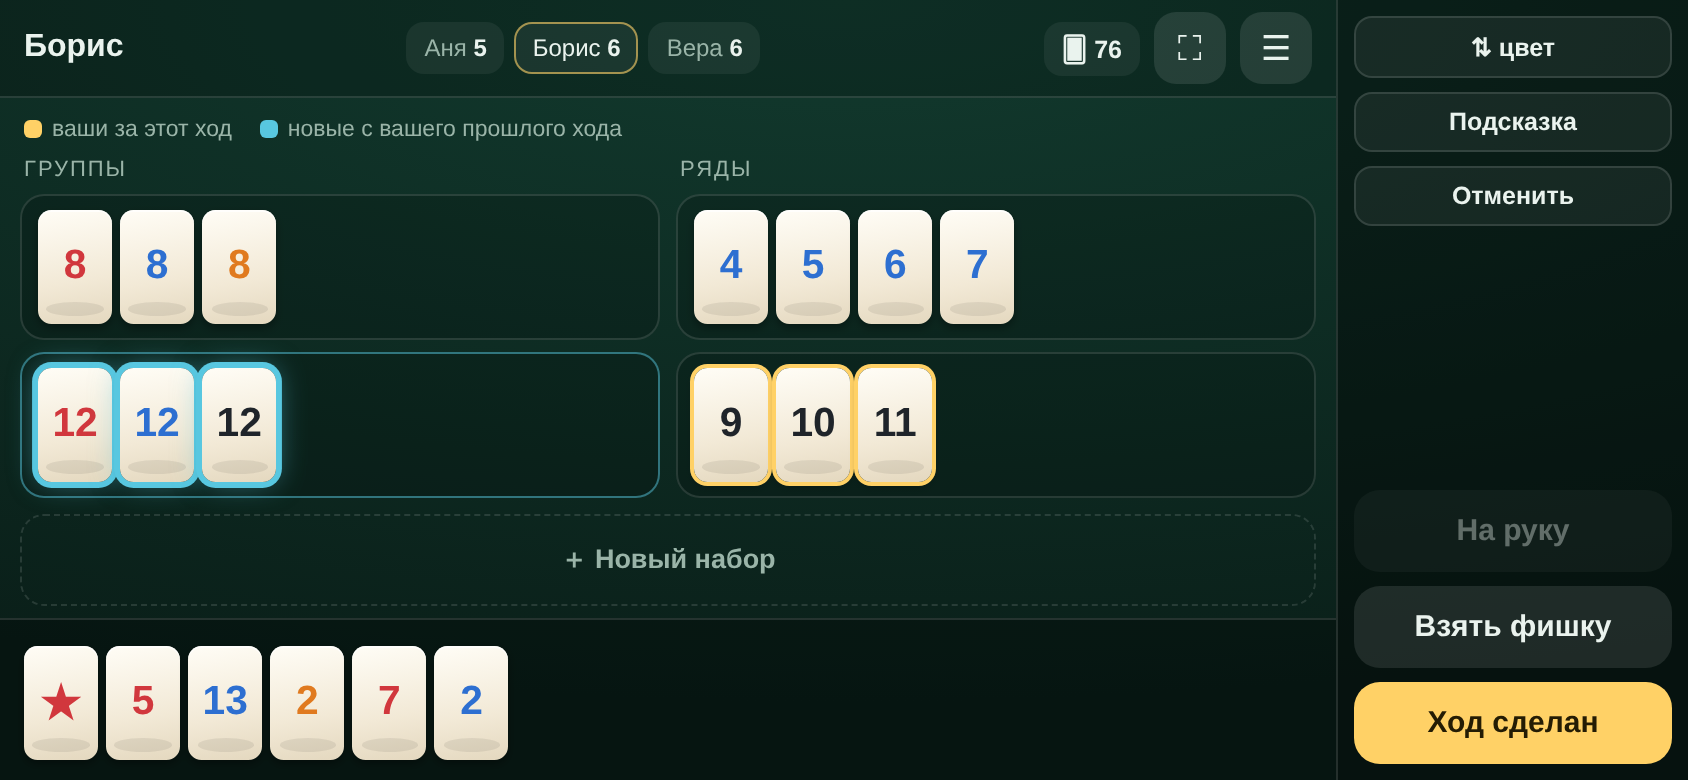
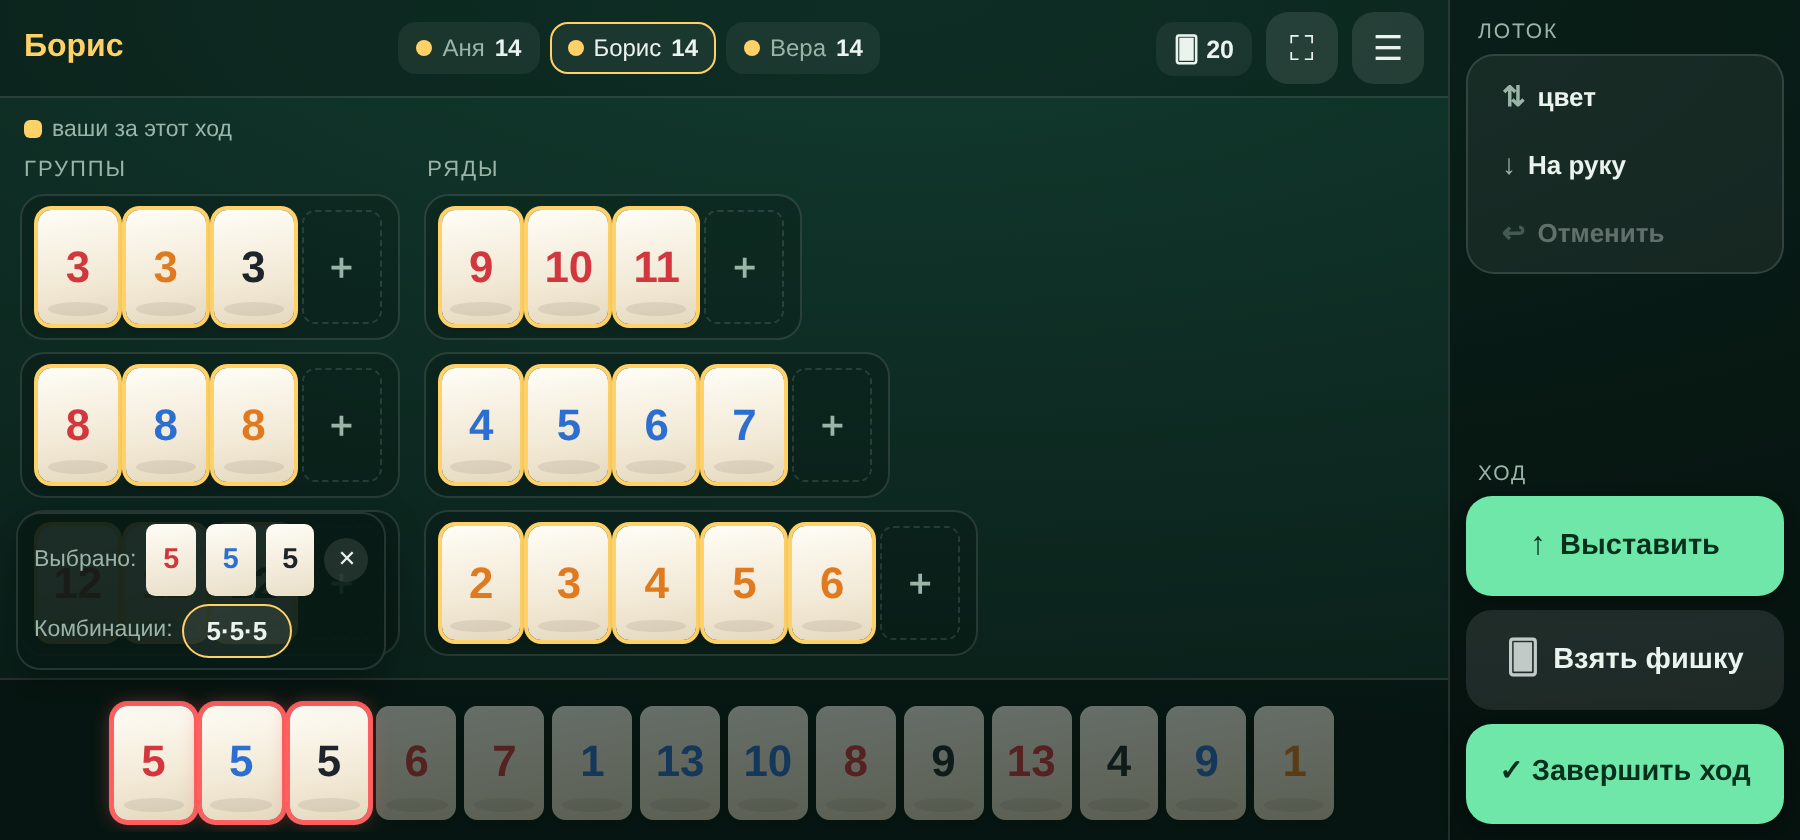
Выделение больше не двигает интерфейс, подложка набора по размеру набора
Полоска «Выбрано» вставлялась в начало стола обычным блоком: первый же
тап по фишке сдвигал вниз всю раскладку, и следующий тап попадал не туда.
Теперь она живёт в одной плавающей панели с комбинациями над лотком —
панель растёт вверх и не двигает ни стол, ни лоток, ни кнопки. Столу
добавляется нижний отступ по высоте панели, чтобы закрытый ею набор
можно было домотать.

Подложка набора обтягивает сам набор: за ячейкой «＋» больше не остаётся
пустого обрезка фона. Подпись-причина у сломанного набора занимает всю
ширину набора, но саму подложку не растягивает.

Claude-Session: https://claude.ai/code/session_019C2MKDABhc1fLVFui55Em7

diff --git a/js/app.js b/js/app.js
@@ -34,7 +34,7 @@ const el = {
   hudPool: $('hudPool'),
   board: $('board'),
   rack: $('rack'),
-  comboBar: $('comboBar'),
+  selPanel: $('selPanel'),
   hudTimer: $('hudTimer'),
   timerPicker: $('timerPicker'),
   btnSort: $('btnSort'),
@@ -421,7 +421,7 @@ function render() {
   const rackScroll = el.rack.scrollTop;
   renderBoard(locked, outlook);
   renderRack();
-  renderCombos();
+  renderSelPanel();
   el.board.scrollTop = boardScroll;
   el.rack.scrollTop = rackScroll;
 
@@ -611,10 +611,6 @@ function renderBoard(locked, outlook) {
   const lockedIds = lockedOnBoard();
   el.board.innerHTML = '';
 
-  // Сводка выделения липнет к верху стола: что выбрано, видно всегда,
-  // без прокрутки в поисках нажатых фишек.
-  if (state.phase === 'play' && selection.size) el.board.appendChild(selBar());
-
   if (locked) {
     const note = document.createElement('div');
     note.className = 'lock-note';
@@ -714,29 +710,6 @@ function renderBoard(locked, outlook) {
     zoneEl('Ряды', runs, fresh, news, canTake)
   );
   el.board.appendChild(zones);
-}
-
-/** Полоска «Выбрано: …» — мини-копии выбранных фишек; тап снимает выбор. */
-function selBar() {
-  const bar = document.createElement('div');
-  bar.className = 'sel-bar';
-  const cap = document.createElement('span');
-  cap.className = 'sel-cap';
-  cap.textContent = 'Выбрано:';
-  bar.appendChild(cap);
-  for (const tile of G.tilesOf(state, [...selection])) {
-    const chip = document.createElement('button');
-    chip.className = `sel-chip c-${tile.color}`;
-    chip.dataset.id = tile.id;
-    chip.textContent = tile.joker ? '★' : String(tile.num);
-    bar.appendChild(chip);
-  }
-  const clear = document.createElement('button');
-  clear.className = 'sel-clear';
-  clear.setAttribute('aria-label', 'Снять всё выделение');
-  clear.textContent = '✕';
-  bar.appendChild(clear);
-  return bar;
 }
 
 /**
@@ -946,19 +919,64 @@ function fitRack(count, spacers = 0) {
 }
 
 /**
- * Умная группировка: когда выбраны фишки с руки, над лотком показываются
- * все наборы, в которые они складываются. Одна и та же фишка часто годится
- * в несколько комбинаций — тап по чипу выбирает нужную целиком.
+ * Панель выделения над лотком: «Выбрано: …» с мини-копиями выбранных фишек
+ * и, если выбранное с руки во что-то складывается, строка комбинаций.
+ *
+ * Панель парит над лотком (position: absolute) и растёт вверх: появление
+ * и исчезновение не сдвигают ни стол, ни лоток, ни кнопки — интерфейс
+ * под пальцем стоит на месте.
  */
-function renderCombos() {
-  el.comboBar.innerHTML = '';
-  el.comboBar.hidden = true;
-  if (!state || state.phase !== 'play' || !selection.size) return;
+function renderSelPanel() {
+  el.selPanel.innerHTML = '';
+  el.selPanel.hidden = true;
+  if (!state || state.phase !== 'play' || !selection.size) {
+    el.board.style.removeProperty('--sel-pad');
+    return;
+  }
 
+  el.selPanel.hidden = false;
+  el.selPanel.appendChild(selRow());
+  const combos = comboOptions();
+  if (combos.length) el.selPanel.appendChild(comboRow(combos));
+
+  // Панель закрывает низ стола — на столько же удлиняем его прокрутку,
+  // чтобы спрятанный набор можно было домотать.
+  el.board.style.setProperty('--sel-pad', `${el.selPanel.offsetHeight + 6}px`);
+}
+
+/** Строка «Выбрано: …»: тап по мини-фишке снимает её, ✕ — всё выделение. */
+function selRow() {
+  const row = document.createElement('div');
+  row.className = 'sel-row';
+  const cap = document.createElement('span');
+  cap.className = 'sel-cap';
+  cap.textContent = 'Выбрано:';
+  row.appendChild(cap);
+  for (const tile of G.tilesOf(state, [...selection])) {
+    const chip = document.createElement('button');
+    chip.className = `sel-chip c-${tile.color}`;
+    chip.dataset.id = tile.id;
+    chip.textContent = tile.joker ? '★' : String(tile.num);
+    row.appendChild(chip);
+  }
+  const clear = document.createElement('button');
+  clear.className = 'sel-clear';
+  clear.setAttribute('aria-label', 'Снять всё выделение');
+  clear.textContent = '✕';
+  row.appendChild(clear);
+  return row;
+}
+
+/**
+ * Умная группировка: наборы с руки, в которые складывается выбранное.
+ * Одна и та же фишка часто годится в несколько комбинаций — тап по чипу
+ * выбирает нужную целиком.
+ */
+function comboOptions() {
   const player = G.currentPlayer(state);
   const rackSet = new Set(player.rack);
   const selected = [...selection];
-  if (!selected.every((id) => rackSet.has(id))) return;
+  if (!selected.every((id) => rackSet.has(id))) return [];
 
   const all = findSets(G.tilesOf(state, player.rack)).filter((s) =>
     selected.every((id) => s.tiles.some((t) => t.id === id))
@@ -973,20 +991,24 @@ function renderCombos() {
     options.push(s);
     if (options.length >= 10) break;
   }
-  if (!options.length) return;
 
   // Джокер лучше приберечь — комбинации с ним показываем последними.
   options.sort(
     (a, b) =>
       Number(a.tiles.some((t) => t.joker)) - Number(b.tiles.some((t) => t.joker))
   );
+  return options.slice(0, 6);
+}
 
-  el.comboBar.hidden = false;
+function comboRow(options) {
+  const player = G.currentPlayer(state);
+  const row = document.createElement('div');
+  row.className = 'combo-row';
   const label = document.createElement('span');
   label.className = 'combo-label';
   label.textContent = 'Комбинации:';
-  el.comboBar.appendChild(label);
-  for (const s of options.slice(0, 6)) {
+  row.appendChild(label);
+  for (const s of options) {
     const chip = document.createElement('button');
     chip.className = 'combo-chip';
     chip.dataset.ids = s.tiles.map((t) => t.id).join(',');
@@ -997,8 +1019,9 @@ function renderCombos() {
       pts.textContent = ` ${s.points}`;
       chip.appendChild(pts);
     }
-    el.comboBar.appendChild(chip);
+    row.appendChild(chip);
   }
+  return row;
 }
 
 /* ---------- таймер хода ---------- */
@@ -1302,19 +1325,6 @@ el.board.addEventListener('click', (e) => {
   const player = G.currentPlayer(state);
   const locked = lockedOnBoard();
 
-  // Полоска «Выбрано»: тап по мини-фишке снимает её, ✕ — всё выделение.
-  const selChip = e.target.closest('.sel-chip');
-  if (selChip) {
-    selection.delete(selChip.dataset.id);
-    render();
-    return;
-  }
-  if (e.target.closest('.sel-clear')) {
-    selection.clear();
-    render();
-    return;
-  }
-
   const meld = e.target.closest('.meld');
 
   // Ячейка «＋» в конце набора — положить выбранное в него.
@@ -1405,13 +1415,26 @@ el.btnPlace.addEventListener('click', smartPlace);
 el.btnDraw.addEventListener('click', drawTile);
 el.btnEnd.addEventListener('click', endTurn);
 
-// Тап по комбинации над лотком — выбрать её фишки целиком.
-el.comboBar.addEventListener('click', (e) => {
-  const chip = e.target.closest('.combo-chip');
-  if (!chip) return;
-  selection = new Set(chip.dataset.ids.split(','));
-  hintIds.clear();
-  render();
+// Панель выделения над лотком: тап по комбинации выбирает её фишки целиком,
+// тап по мини-фишке снимает её, ✕ — снимает всё выделение.
+el.selPanel.addEventListener('click', (e) => {
+  const combo = e.target.closest('.combo-chip');
+  if (combo) {
+    selection = new Set(combo.dataset.ids.split(','));
+    hintIds.clear();
+    render();
+    return;
+  }
+  const chip = e.target.closest('.sel-chip');
+  if (chip) {
+    selection.delete(chip.dataset.id);
+    render();
+    return;
+  }
+  if (e.target.closest('.sel-clear')) {
+    selection.clear();
+    render();
+  }
 });
 
 // Кружок цвета на экране настройки — перебор свободных цветов.

diff --git a/styles.css b/styles.css
@@ -298,7 +298,11 @@ button { font: inherit; color: inherit; }
   min-height: 0;
   overflow-y: auto;
   -webkit-overflow-scrolling: touch;
-  padding: 10px max(10px, var(--safe-r)) 14px max(10px, var(--safe-l));
+  /* Снизу столу добавляется высота панели выделения: то, что она собой
+     закрыла, всегда можно домотать. Нижний отступ ничего не двигает —
+     содержимое стола прижато к верху. */
+  padding: 10px max(10px, var(--safe-r)) calc(14px + var(--sel-pad, 0px))
+    max(10px, var(--safe-l));
   display: flex;
   flex-direction: column;
   gap: 8px;
@@ -370,11 +374,16 @@ button { font: inherit; color: inherit; }
   }
 }
 
+/* Подложка набора обтягивает сам набор: за ячейкой «＋» не остаётся
+   пустого куска фона, который выглядит обрезком, а не местом для фишки. */
 .meld {
   position: relative;
   display: flex;
   flex-wrap: wrap;
   align-items: center;
+  align-self: flex-start;
+  width: fit-content;
+  max-width: 100%;
   gap: var(--gap);
   padding: 7px 8px;
   border-radius: 12px;
@@ -392,8 +401,11 @@ button { font: inherit; color: inherit; }
   box-shadow: 0 0 0 1px var(--pc, var(--gold)) inset;
 }
 
+/* Подпись-причина занимает всю ширину набора, но не растягивает подложку:
+   ширину задаёт сам набор, а не длина текста. */
 .meld-note {
-  width: 100%;
+  width: 0;
+  min-width: 100%;
   font-size: 11.5px;
   color: var(--danger);
   padding-left: 2px;
@@ -419,25 +431,10 @@ button { font: inherit; color: inherit; }
 .slot-add.is-hot { border-color: var(--pc, var(--gold)); color: var(--pc, var(--gold)); }
 .slot-add:active { background: var(--surface); }
 
-/* Сводка выделения: липнет к верху стола, тап по мини-фишке снимает её. */
-.sel-bar {
-  position: sticky;
-  top: 0;
-  z-index: 6;
-  display: flex;
-  align-items: center;
-  flex-wrap: wrap;
-  gap: 5px;
-  width: fit-content;
-  max-width: 100%;
-  padding: 5px 8px;
-  border-radius: 12px;
-  border: 1px solid var(--line);
-  background: rgba(9, 26, 21, 0.92);
-  box-shadow: 0 4px 14px rgba(0, 0, 0, 0.35);
-}
-.sel-cap { font-size: 11.5px; color: var(--ink-dim); }
+/* Сводка выделения (внутри панели над лотком): тап по мини-фишке снимает её. */
+.sel-cap { flex: none; font-size: 11.5px; color: var(--ink-dim); }
 .sel-chip {
+  flex: none;
   border: 0;
   padding: 0;
   width: calc(var(--tile-w) * 0.62);
@@ -456,6 +453,7 @@ button { font: inherit; color: inherit; }
 .sel-chip.c-o { color: var(--c-o); }
 .sel-chip.c-k { color: var(--c-k); }
 .sel-clear {
+  flex: none;
   border: 0;
   width: 22px;
   height: 22px;
@@ -560,9 +558,10 @@ button { font: inherit; color: inherit; }
   padding: 4px max(8px, var(--safe-r)) 4px max(8px, var(--safe-l));
 }
 
-/* Комбинации с выбранными фишками: полоска парит над лотком,
-   не двигая остальную раскладку. */
-.combo-bar {
+/* Панель выделения: «Выбрано: …» и комбинации с этими фишками.
+   Парит над лотком и растёт вверх — появление ничего не двигает,
+   стол и кнопки под пальцем остаются на месте. */
+.sel-panel {
   position: absolute;
   left: 8px;
   max-width: calc(100% - 16px);
@@ -570,10 +569,8 @@ button { font: inherit; color: inherit; }
   bottom: 100%;
   margin-bottom: 5px;
   display: flex;
-  align-items: center;
-  gap: 6px;
-  overflow-x: auto;
-  scrollbar-width: none;
+  flex-direction: column;
+  gap: 4px;
   padding: 5px 8px;
   border-radius: 12px;
   background: rgba(9, 26, 21, 0.92);
@@ -581,8 +578,14 @@ button { font: inherit; color: inherit; }
   box-shadow: 0 6px 18px rgba(0, 0, 0, 0.35);
   z-index: 5;
 }
-.combo-bar::-webkit-scrollbar { display: none; }
-.combo-bar[hidden] { display: none; }
+.sel-panel[hidden] { display: none; }
+.sel-row,
+.combo-row {
+  display: flex;
+  align-items: center;
+  flex-wrap: wrap;
+  gap: 5px;
+}
 .combo-label { flex: none; font-size: 11.5px; color: var(--ink-dim); }
 .combo-chip {
   flex: none;

diff --git a/index.html b/index.html
@@ -85,7 +85,7 @@
   <main class="board" id="board" aria-label="Стол"></main>
 
   <div class="rack-area">
-    <div class="combo-bar" id="comboBar" aria-label="Комбинации с выбранными фишками"></div>
+    <div class="sel-panel" id="selPanel" aria-label="Выбранные фишки и комбинации"></div>
     <div class="rack" id="rack"></div>
   </div>
 
@@ -168,7 +168,7 @@
       <p>Фишку, которая уже лежит на столе, забрать на руку нельзя — её можно только переставить в другой набор. Это касается и джокеров.</p>
 
       <h3>Управление</h3>
-      <p>Нажмите на фишки, чтобы выбрать (можно несколько). Когда выбраны фишки с руки, над лотком появляются <b>комбинации</b> — готовые наборы с этими фишками: нажмите на комбинацию, и она выберется целиком. Кнопка <b>«Выставить»</b> сама решает, куда положить выбранное: соберёт новый набор или добавит фишки к подходящему набору на столе.</p>
+      <p>Нажмите на фишки, чтобы выбрать (можно несколько). Над лотком всплывает полоска <b>«Выбрано»</b> с их копиями: тап по копии снимает одну фишку, ✕ — всё выделение. Если выбраны фишки с руки, там же видны <b>комбинации</b> — готовые наборы с этими фишками: нажмите на комбинацию, и она выберется целиком. Кнопка <b>«Выставить»</b> сама решает, куда положить выбранное: соберёт новый набор или добавит фишки к подходящему набору на столе.</p>
       <p>Можно и вручную: нажмите на набор на столе или на ячейку «＋» в его конце — выбранные фишки переедут туда (подходящие наборы подсвечиваются), «На руку» возвращает фишки, выложенные вами в этом ходу.</p>
       <p>Нажатие на набор без выбранных фишек выделяет его целиком — удобно разбирать. Если забрать фишку из середины длинного ряда, ряд сам распадётся на два правильных. Стол раскладывается сам: группы (одинаковые числа) слева, ряды — справа.</p>
 

diff --git a/sw.js b/sw.js
@@ -1,6 +1,6 @@
 /* Офлайн-кэш. Меняйте VERSION при каждом обновлении файлов. */
 
-const VERSION = 'rummikub-v10';
+const VERSION = 'rummikub-v11';
 
 const ASSETS = [
   './',
